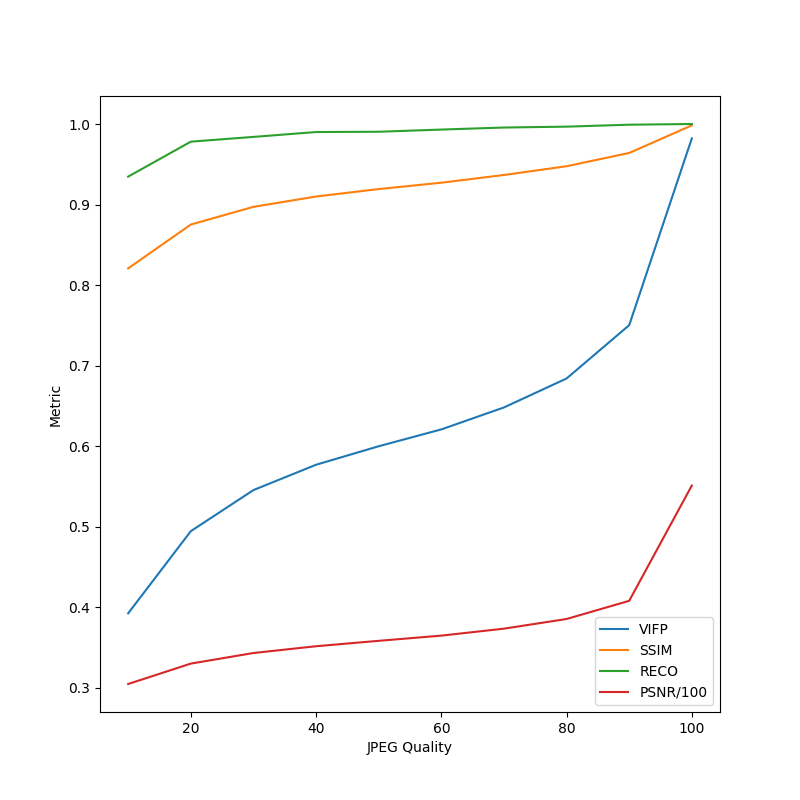
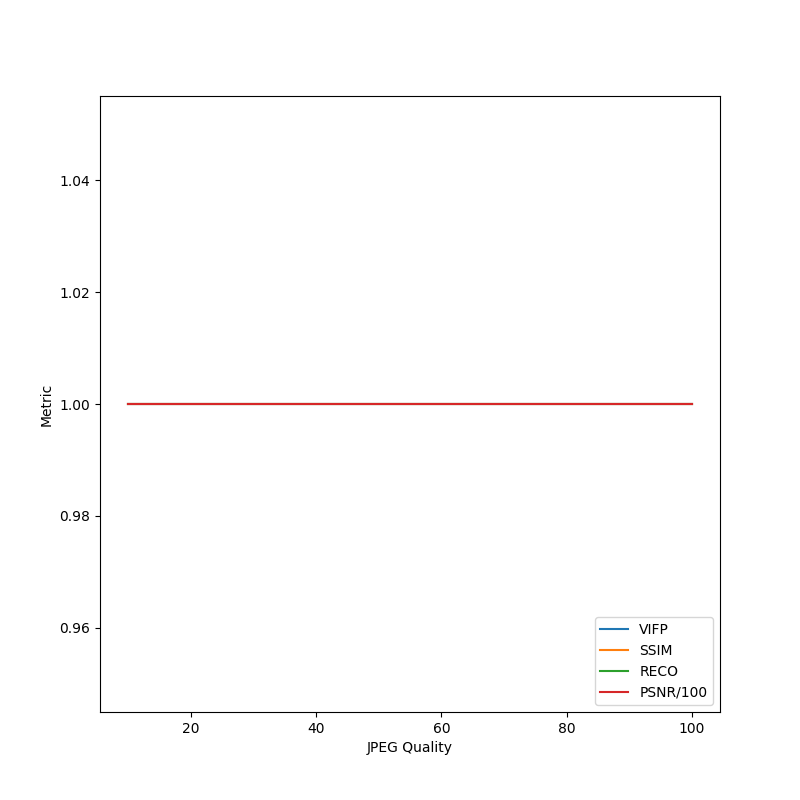
update video quality pipeline

diff --git a/image_to_quality.py b/image_to_quality.py
@@ -1,0 +1,128 @@
+# Py3
+import vifp
+import ssim
+import psnr
+import niqe
+import reco
+import emulater
+import pickle
+import matplotlib.pyplot as plt
+
+
+file_list = ["cute_dog"]
+# loss_rate_list = [0.02, 0.04, 0.06, 0.08, 0.10, 0.2, 0.3]
+loss_rate_list = [0.2]
+quality_metric_list = ["vifp", "psnr", "ssim"]
+
+# use numpy array to get three quality
+def image_np_to_quality(ref, dist,
+                        use_vifp = True, use_ssim = True,
+                        use_psnr = True, use_niqe = False,
+                        use_reco = False):
+    result = {}
+    if (use_vifp):
+        result["vifp"] = vifp.vifp_mscale(ref, dist)
+
+    if (use_ssim):
+        result["ssim"] = ssim.ssim_exact(ref/255, dist/255)
+
+    if (use_psnr):
+        result["psnr"] = psnr.psnr(ref, dist)/100
+
+    if (use_niqe):
+        result["niqe"] = niqe.niqe(dist/255)
+
+    if (use_reco):
+        result["reco"] = reco.reco(ref/255, dist/255)
+    return result
+
+# use ref and dist filename to get image quality indexes
+def image_file_to_quality(ref_filename, dist_filename):
+    ref = scipy.misc.imread(ref_filename, flatten=True).astype(numpy.float32)
+    dist = scipy.misc.imread(dist_filename, flatten=True).astype(numpy.float32)
+
+    result = image_np_to_quality(ref, dist)
+    print(result)
+
+def ref_and_dist_list_to_quality_list(ref, dist_list):
+    result_list = []
+    for dist in dist_list:
+        result = image_np_to_quality(ref, dist)
+        result_list.append(result)
+
+    return result_list
+
+def one_name_to_all_result(name):
+    ref_filename = name + "_0.bmp"
+    dist_filename_list = [name + "_" n + ".bmp" for n in["1", "2", "3", "4"]]
+    ref = scipy.misc.imread(ref_filename, flatten=True).astype(numpy.float32)
+    dist_list = [scipy.misc.imread(dist_filename, flatten=True).astype(numpy.float32) for dist_filename in dist_filename_list]
+    return ref_and_dist_list_to_quality_list(ref, dist_list)
+
+
+# generate file_lr_id.bmp, lr in loss rate list, id in [0,5]
+def emulator_file_list_at_all_loss_rate(file_list, loss_rate_list):
+    for loss_rate in loss_rate_list:
+        for filename in file_list:
+            # todo: need to check the existence of the files
+            emulator.emulate_image_at_loss_rate(filename+".bmp", loss_rate, redo=false) # loss rate here is a float
+
+# get 1,2,3,4 results, for filename_string of loss rate
+def get_result_for_one_file_at_loss_rate(filename, loss_rate):
+    # convert loss rate to string
+    loss_rate_str = str(int(loss_rate*100))
+    name = filename + "_" + loss_rate_list
+    return one_name_to_all_result(name)
+
+
+# data looks like
+# {"10":{"cute_dog":[{"vifp":0.2, "psnr":0.3, "ssim":0.4}, ..., ..., ...], "xxx":[...]},
+#  "20":...}
+
+def get_all_result(file_list, loss_rate_list):
+    dataset_result = {}
+    for loss_rate in loss_rate_list:
+        loss_rate_result = {}
+        for filename in file_list:
+            loss_rate_result[filename] = get_result_for_one_file_at_loss_rate(filename, loss_rate)
+        # loss_rate_str = str(int(loss_rate*100))
+        dataset_result[loss_rate] = loss_rate_result
+
+    pickle.dump(dataset_result, output = open('data.pkl', 'wb'))
+    return dataset_result
+
+def parse_dataset_result_for_one_metric(dataset_result, metric):
+    loss_rate_list = []
+    loss_list = []
+    loss_fix_list = []
+    interleave_list = []
+    interleave_fix_list = []
+
+    for loss_rate, lr_result in dataset_result.items():
+        value0_list = []
+        value1_list = []
+        value2_list = []
+        value3_list = []
+        # get average quality for all files under one loss rate
+        for filename, result in lr_result.items():
+            value0_list.append(result[0][metric])
+            value1_list.append(result[1][metric])
+            value2_list.append(result[2][metric])
+            value3_list.append(result[3][metric])
+
+        loss_list.append(sum(value0_list) / len(value0_list))
+        loss_fix_list.append(sum(value1_list) / len(value1_list))
+        interleave_list.append(sum(value2_list) / len(value2_list))
+        interleave_fix_list.append(sum(value3_list) / len(value3_list))
+        loss_rate_list.append(loss_rate)
+
+    plt.plot(loss_rate_list, loss_list, label="Loss without recover")
+    plt.plot(loss_rate_list, loss_fix_list, label="Loss with recover")
+    plt.plot(loss_rate_list, interleave_list, label="Interleave without recover")
+    plt.plot(loss_rate_list, interleave_fix_list, label="Interleave with recover")
+
+    plt.legend(loc='lower right')
+    plt.xlabel('Loss Rate')
+    plt.ylabel('Metric')
+    plt.savefig('quality_vs_loss_rate.png')
+

diff --git a/image_transmission/tcp_udp/send_image_udp_tcp.py b/image_transmission/tcp_udp/send_image_udp_tcp.py
@@ -1,0 +1,101 @@
+import socket
+import sys
+import struct
+import random
+import traceback
+
+# X, Y, Z; For the first X (percent) of packets,
+# a meta packet in every Y packets,
+# then sending Z EOF packet.
+X = 0.2
+Y = 10
+Z = 5
+
+META_TYPE =0
+DATA_TYPE =1
+EOF_TYPE = 2
+
+image_filename = "./cute_dog.bmp" # @TODO: change this
+CHUNK_SIZE = 512 # @TODO: change this
+
+# Create a TCP/IP socket
+sock = socket.socket(socket.AF_INET, socket.SOCK_DGRAM)
+server_address = ('10.0.2.2', 20008)
+#server_address = ('127.0.0.1', 20008)
+
+# Get size, offset, then split into all meta(fileheader, DIB, Color-table) and all data
+def get_bmp_meta_and_data(bmp_filename):
+    bmp = open(bmp_filename, 'rb')
+    # print('Type:', bmp.read(2).decode())
+    # print('Size: %s' % struct.unpack('I', bmp.read(4)))
+    # print('Reserved 1: %s' % struct.unpack('H', bmp.read(2)))
+    # print('Reserved 2: %s' % struct.unpack('H', bmp.read(2)))
+
+    bmp.seek(2, 1) # relative
+    size = struct.unpack('I', bmp.read(4))[0]
+    bmp.seek(4, 1) # relative
+    offset = struct.unpack('I', bmp.read(4))[0]
+
+    bmp.seek(0, 0) # from start
+    meta = bmp.read(offset)
+    data = bmp.read()
+    bmp.close()
+
+    return meta, data
+
+img_meta, img_data = get_bmp_meta_and_data(image_filename)
+data_size = len(img_data)
+chunk_cnt = (data_size // CHUNK_SIZE) + ((data_size % CHUNK_SIZE) > 0)
+last_size = data_size - (chunk_cnt - 1) * CHUNK_SIZE
+
+seq_X = int(chunk_cnt * X)
+
+# send packets
+sock = socket.socket(socket.AF_INET, socket.SOCK_DGRAM)
+# get random identifier
+rand_identifier = random.randint(1,1000000)
+
+# send meta
+sock = socket.socket(socket.AF_INET, socket.SOCK_STREAM)
+
+# Create a TCP/IP socket
+sock = socket.socket(socket.AF_INET, socket.SOCK_DGRAM)
+server_address = ('10.0.2.2', 20008)
+
+
+print("Start sending image")
+try:
+    # send data and meta
+    seq = 0
+    p_cnt = 0
+    while seq < chunk_cnt:
+        # send packets
+        if seq < seq_X and p_cnt % Y == 0:
+            # send meta
+            meta = struct.pack(">LLLLL", META_TYPE, rand_identifier, chunk_cnt, CHUNK_SIZE, last_size)
+            meta = meta + img_meta
+            sock.sendto(meta, server_address)
+            p_cnt += 1
+        else:
+            # send data
+            data = struct.pack(">LLL", DATA_TYPE, rand_identifier, seq)
+            # check if it is last packet
+            if seq == chunk_cnt - 1:
+                data = data + img_data[CHUNK_SIZE*seq :]
+            else:
+                data = data + img_data[CHUNK_SIZE*seq : CHUNK_SIZE*(seq+1)]
+            seq += 1
+            p_cnt += 1
+            sock.sendto(data, server_address)
+    # send EOF
+    for i in range(0, Z):
+        eof = struct.pack(">LL", EOF_TYPE, rand_identifier)
+        sock.sendto(eof, server_address)
+
+except Exception as e:
+    print("Something is wrong")
+    traceback.print_exc()
+finally:
+    sock.close()
+print("Finish sending image")
+

diff --git a/video-quality/demo/jpg_demo.py b/video-quality/demo/jpg_demo.py
@@ -13,8 +13,11 @@ import reco
 
 import matplotlib.pyplot as plt
 
-ref_file = 'lena.png'
-dist_file = 'lena_tmp.jpg'
+#ref_file = 'lena.png'
+ref_file = 'cute_dog.bmp'
+dist_file = 'cute_dog.bmp'
+#dist_file = 'cute_dog_save.bmp'
+#dist_file = 'lena_tmp.jpg'
 
 ref = scipy.misc.imread(ref_file, flatten=True).astype(numpy.float32)
 
@@ -29,7 +32,7 @@ reco_values = []
 plt.figure(figsize=(8, 8))
 
 for quality in range(10, 101, 10):
-    subprocess.check_call('convert %s -quality %d %s'%(ref_file, quality, dist_file), shell=True)
+    #subprocess.check_call('convert %s -quality %d %s'%(ref_file, quality, dist_file), shell=True)
     file_size = os.path.getsize(dist_file)
 
     dist = scipy.misc.imread(dist_file, flatten=True).astype(numpy.float32)

diff --git a/video-quality/niqe.py b/video-quality/niqe.py
@@ -80,7 +80,7 @@ def generalized_gaussian_ratio_inverse(k):
         #print "%f %f %f" % (k, ((3-4*k)/(4*c1)), c2**2 + 4*c3*log((3-4*k)/(4*c1)) )
         return (1/(2*c3)) * (c2 - math.sqrt(c2**2 + 4*c3*math.log((3-4*k)/(4*c1))))
     else:
-        print "warning: GGRF inverse of %f is not defined" %(k)
+        print("warning: GGRF inverse of %f is not defined" %(k))
         return numpy.nan
 
 """
